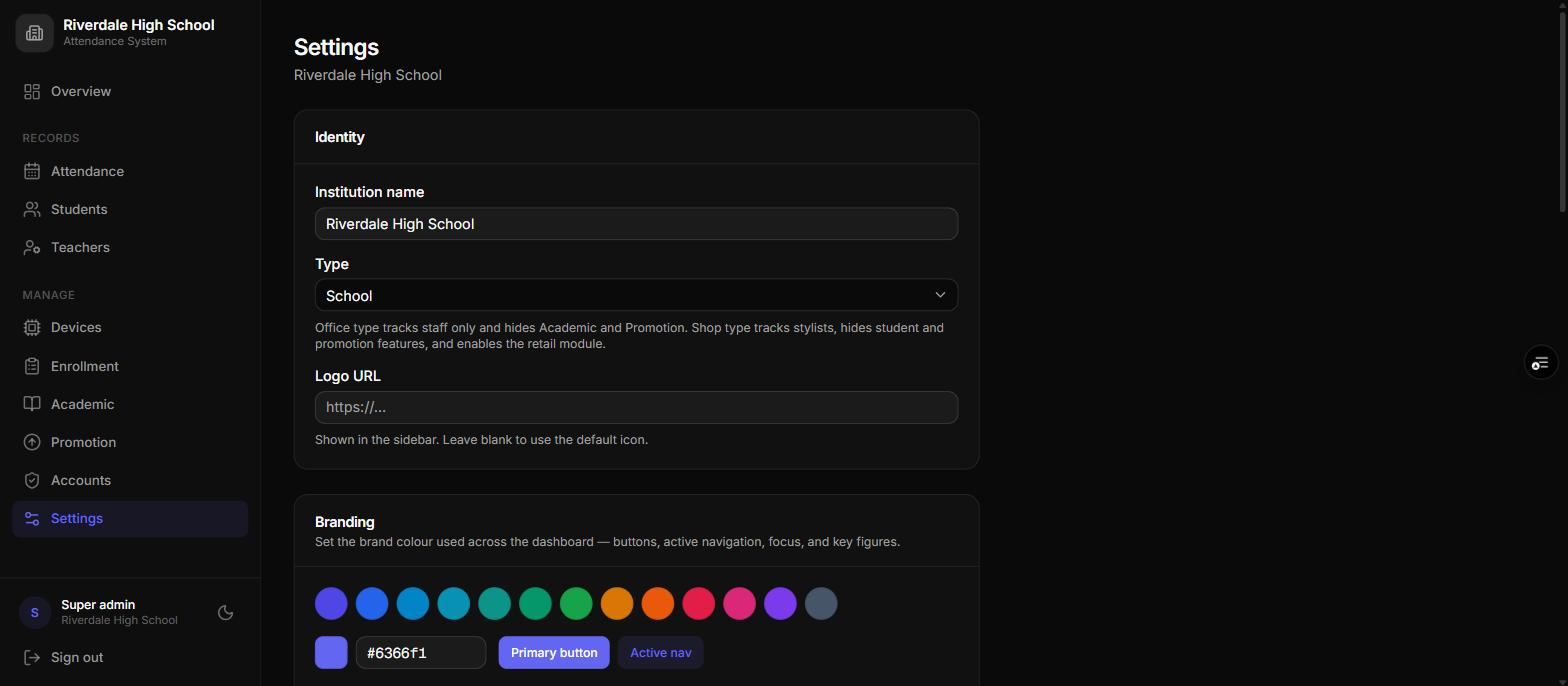
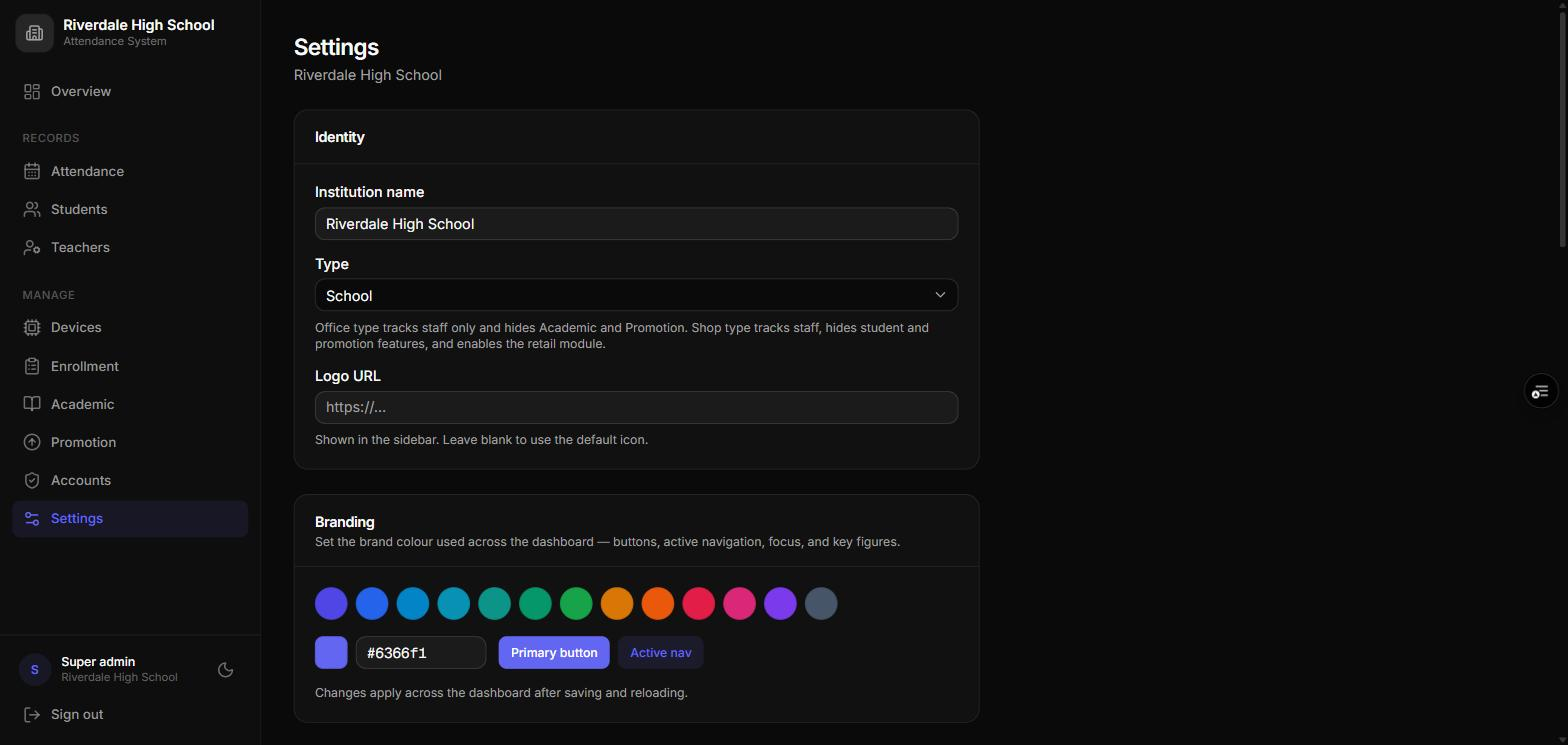
Re-shoot shop + settings screenshots after salon-language cleanup deployed
The 7bd44ab cleanup ("stylist"/"salon" removed) reached the live
deployment, so all 18 shop--* captures were re-taken from it, along with
school--11-settings.jpg and office--09-settings.jpg (which showed the old
"Shop type tracks stylists" help text in the Type dropdown). Nothing in
images/ reads "stylist" now.

diff --git a/images/README.md b/images/README.md
@@ -1,11 +1,13 @@
 # Dashboard screenshots — demo institutions
 
-Dark-mode captures of the live dashboard (`esp32-attendance-device-y9cs.vercel.app`,
-which tracks the `oled-integration` branch), one set per institution type. Taken
-2026-09-08 against three throwaway demo tenants seeded in the production Supabase
-project alongside the real ones (the real institutions are untouched and never
-appear in these shots — every capture was taken while signed in as the demo
-tenant's own `super_admin`, which the app hard-scopes to that tenant).
+Dark-mode captures of the live dashboard (`esp32-attendance-device-y9cs.vercel.app`),
+one set per institution type. Taken 2026-09-08 against three throwaway demo
+tenants seeded in the production Supabase project alongside the real ones (the
+real institutions are untouched and never appear in these shots — every capture
+was taken while signed in as the demo tenant's own `super_admin`, which the app
+hard-scopes to that tenant). All 18 `shop--*` shots plus the two settings shots
+were re-taken after the `7bd44ab` "drop salon vocabulary" cleanup reached the
+live deployment, so nothing here reads "stylist".
 
 Filenames: `<type>--<nn>-<page>.jpg`. JPEG because that is what the capture path
 produces; ~1250–1570 px wide.
@@ -75,7 +77,7 @@ sales, 3 loyalty rules with 5 issuances.
 | `shop--15-enrollment.jpg` | Enrollment |
 | `shop--16-closed-days.jpg` | Closed Days |
 | `shop--17-accounts.jpg` | Accounts |
-| `shop--18-settings.jpg` | Settings (custom labels + attendance tracking) |
+| `shop--18-settings.jpg` | Settings (identity + branding; "Shop type tracks staff") |
 
 ## Notes
 
